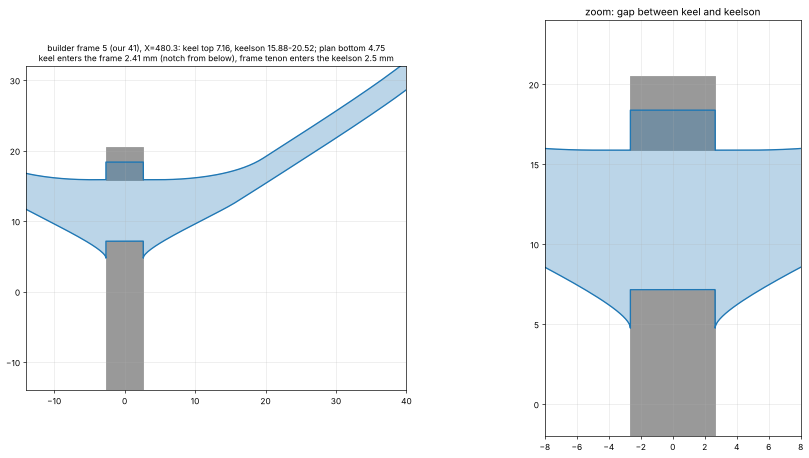
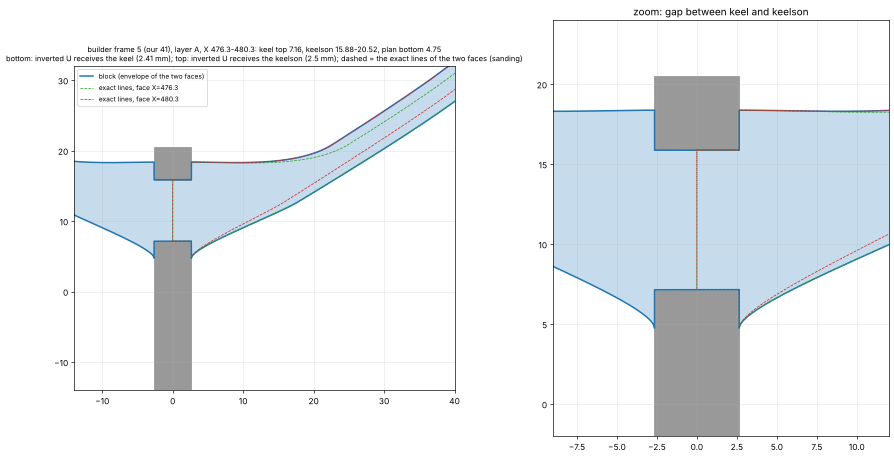
2D section frame 5: inverted U receives the keelson, double sanding lines
Claude-Session: https://claude.ai/code/session_017HV2YHL4JdRTKuYXk76aAy

diff --git a/royal_caroline/py/keel_keelson_section.py b/royal_caroline/py/keel_keelson_section.py
@@ -9,20 +9,27 @@ def zr(name):
     p=Polygon(max(BB[name],key=lambda q:Polygon(q).area)).buffer(0); g=p.intersection(LineString([(xc,-30),(xc,200)])); return g.bounds[1],g.bounds[3]
 keel_top=zr('Boss-Extrude2[2]')[1]; ks_bot,ks_top=zr('Boss-Extrude4[4]'); plan_base=PA[0,1]
 KB=5.3/2; PEN_LOW=keel_top-plan_base; PEN_UP=2.5
-# outer line of the frame (face at the centre X): tangent into the keel wall, reaching the plan base level
-P=C.band(i,xc)[1]; O=outer_to_wall(P,plan_base); O=O[np.argsort(O[:,1])]
-sm=np.c_[savgol_filter(O[:,0],11,3),savgol_filter(O[:,1],11,3)]; d_=np.gradient(sm,axis=0); d_/=np.hypot(*d_.T)[:,None]; m=np.c_[-d_[:,1],d_[:,0]]; I=O+m*3.2
-# top (inner) boundary: flat shoulder at the keelson bottom, then a tangent spline into the inner line
-k=np.where((I[:,0]>8)&(I[:,1]>ks_bot+3))[0][0]; Pj=I[k]; Tj=I[k+2]-I[k-2]; Tj=Tj/np.hypot(*Tj)
-Ps=np.array([KB+2.0,ks_bot]); L=np.hypot(*(Pj-Ps)); sp=herm(Ps,np.array([1.0,0.0])*L*0.9,Pj,Tj*L*0.9)
-top_pts=np.vstack([[[0,ks_bot+PEN_UP],[KB,ks_bot+PEN_UP],[KB,ks_bot],[KB+2.0,ks_bot]],sp[1:],I[k+1:]])
-poly=Polygon(np.vstack([[[0,keel_top],[KB,keel_top],[KB,plan_base]],O,top_pts[::-1]])).buffer(0).intersection(box(0,-10,200,300))
-full=unary_union([poly.buffer(0.01),C.mirror(poly).buffer(0.01)]).buffer(-0.01)
+def face_poly(Xf):
+    P=C.band(i,Xf)[1]; O=outer_to_wall(P,plan_base); O=O[np.argsort(O[:,1])]
+    sm=np.c_[savgol_filter(O[:,0],11,3),savgol_filter(O[:,1],11,3)]; d_=np.gradient(sm,axis=0); d_/=np.hypot(*d_.T)[:,None]; m=np.c_[-d_[:,1],d_[:,0]]; I=O+m*3.2
+    zt=ks_bot+PEN_UP                                    # leg tops: the keelson sits in an inverted U whose legs rise PEN_UP beside it (mirror of the keel at the bottom)
+    k=int(np.where((I[:,0]>8)&(I[:,1]>zt+2.5))[0][0]); Pj=I[k]; Tj=I[k+2]-I[k-2]; Tj=Tj/np.hypot(*Tj)
+    Ps=np.array([KB+0.01,zt]); L=np.hypot(*(Pj-Ps)); sp=herm(Ps,np.array([1.0,0.0])*L*0.9,Pj,Tj*L*0.9)
+    top=np.vstack([[[KB,ks_bot],[KB,zt]],sp[1:],I[k+1:]])
+    poly=Polygon(np.vstack([[[0,keel_top],[KB,keel_top],[KB,plan_base]],O,top[::-1],[[0,ks_bot]]])).buffer(0).intersection(box(0,-10,200,300))
+    return poly,O,top
+faces={xf:face_poly(xf) for xf in (xc-4,xc)}
+block=unary_union([faces[x][0].buffer(0.01) for x in faces]).buffer(-0.01)
+full=unary_union([block.buffer(0.01),C.mirror(block).buffer(0.01)]).buffer(-0.01)
 fig,ax=plt.subplots(1,2,figsize=(18,9))
-for a,(xl,yl) in zip(ax,(((-14,40),(-14,32)),((-8,8),(-2,24)))):
+for a,(xl,yl) in zip(ax,(((-14,40),(-14,32)),((-9,12),(-2,24)))):
     a.add_patch(plt.Rectangle((-KB,-20),2*KB,keel_top+20,color='#999')); a.add_patch(plt.Rectangle((-KB,ks_bot),2*KB,ks_top-ks_bot,color='#999'))
-    for gg in (full.geoms if hasattr(full,'geoms') else [full]): a.fill(*gg.exterior.xy,color='tab:blue',alpha=.3); a.plot(*gg.exterior.xy,color='tab:blue',lw=1.6)
+    for gg in (full.geoms if hasattr(full,'geoms') else [full]): a.fill(*gg.exterior.xy,color='tab:blue',alpha=.25); a.plot(*gg.exterior.xy,color='tab:blue',lw=1.8,label='block (envelope of the two faces)')
+    for xf,col in zip(faces,('tab:green','tab:red')):
+        p=faces[xf][0]
+        for gg in (p.geoms if hasattr(p,'geoms') else [p]): a.plot(*gg.exterior.xy,color=col,lw=.9,ls='--',label=f'exact lines, face X={xf:.1f}')
     a.set_xlim(*xl); a.set_ylim(*yl); a.set_aspect('equal'); a.grid(alpha=.3)
-ax[0].set_title(f'builder frame 5 (our 41), X={xc:.1f}: keel top {keel_top:.2f}, keelson {ks_bot:.2f}-{ks_top:.2f}; plan bottom {plan_base:.2f}\nkeel enters the frame {PEN_LOW:.2f} mm (notch from below), frame tenon enters the keelson {PEN_UP} mm',fontsize=10)
+h,l=ax[0].get_legend_handles_labels(); ax[0].legend(h[:3],l[:3],fontsize=8,loc='upper left')
+ax[0].set_title(f'builder frame 5 (our 41), layer A, X {xc-4:.1f}-{xc:.1f}: keel top {keel_top:.2f}, keelson {ks_bot:.2f}-{ks_top:.2f}, plan bottom {plan_base:.2f}\nbottom: inverted U receives the keel ({PEN_LOW:.2f} mm); top: inverted U receives the keelson ({PEN_UP} mm); dashed = the exact lines of the two faces (sanding)',fontsize=9)
 ax[1].set_title('zoom: gap between keel and keelson')
-plt.savefig('qa/keel_keelson_section_frame5.png',dpi=60,bbox_inches='tight'); print('keel top %.2f, keelson %.2f..%.2f, gap %.2f, plan base %.2f -> low overlap %.2f'%(keel_top,ks_bot,ks_top,ks_bot-keel_top,plan_base,PEN_LOW))
+plt.savefig('qa/keel_keelson_section_frame5.png',dpi=60,bbox_inches='tight'); print('valid',all(faces[x][0].is_valid for x in faces),'overlap bottom %.2f top %.2f'%(PEN_LOW,PEN_UP))
